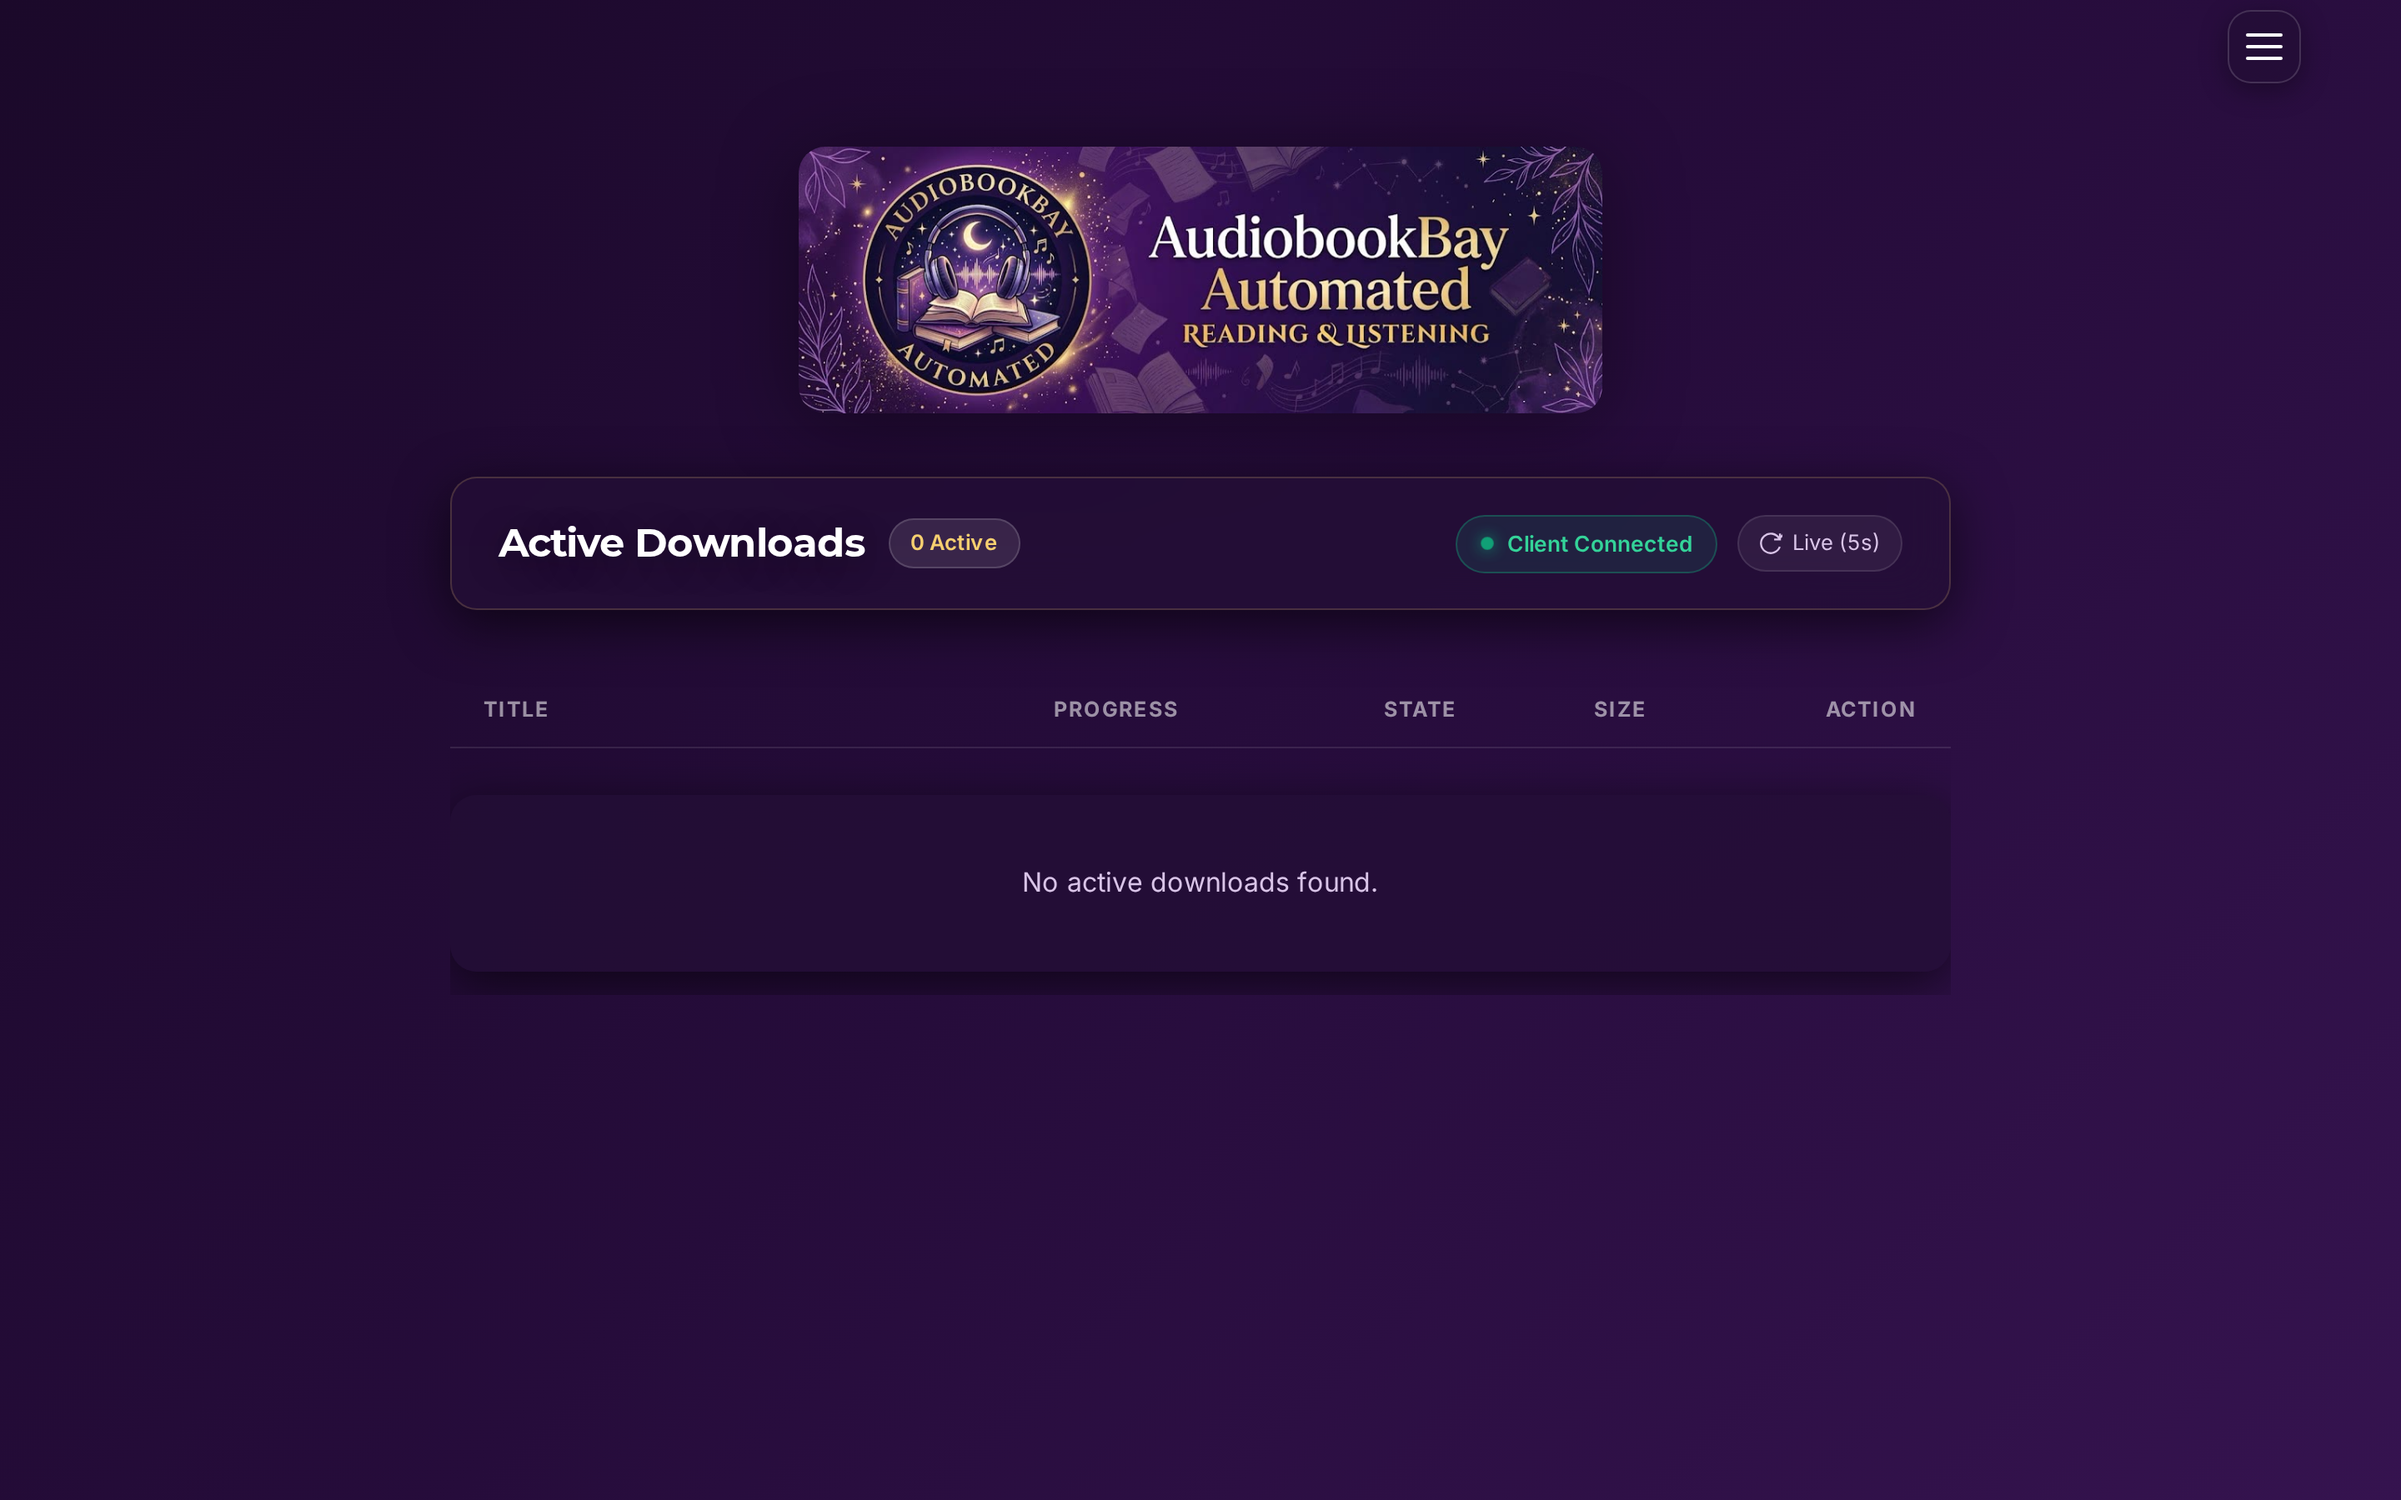
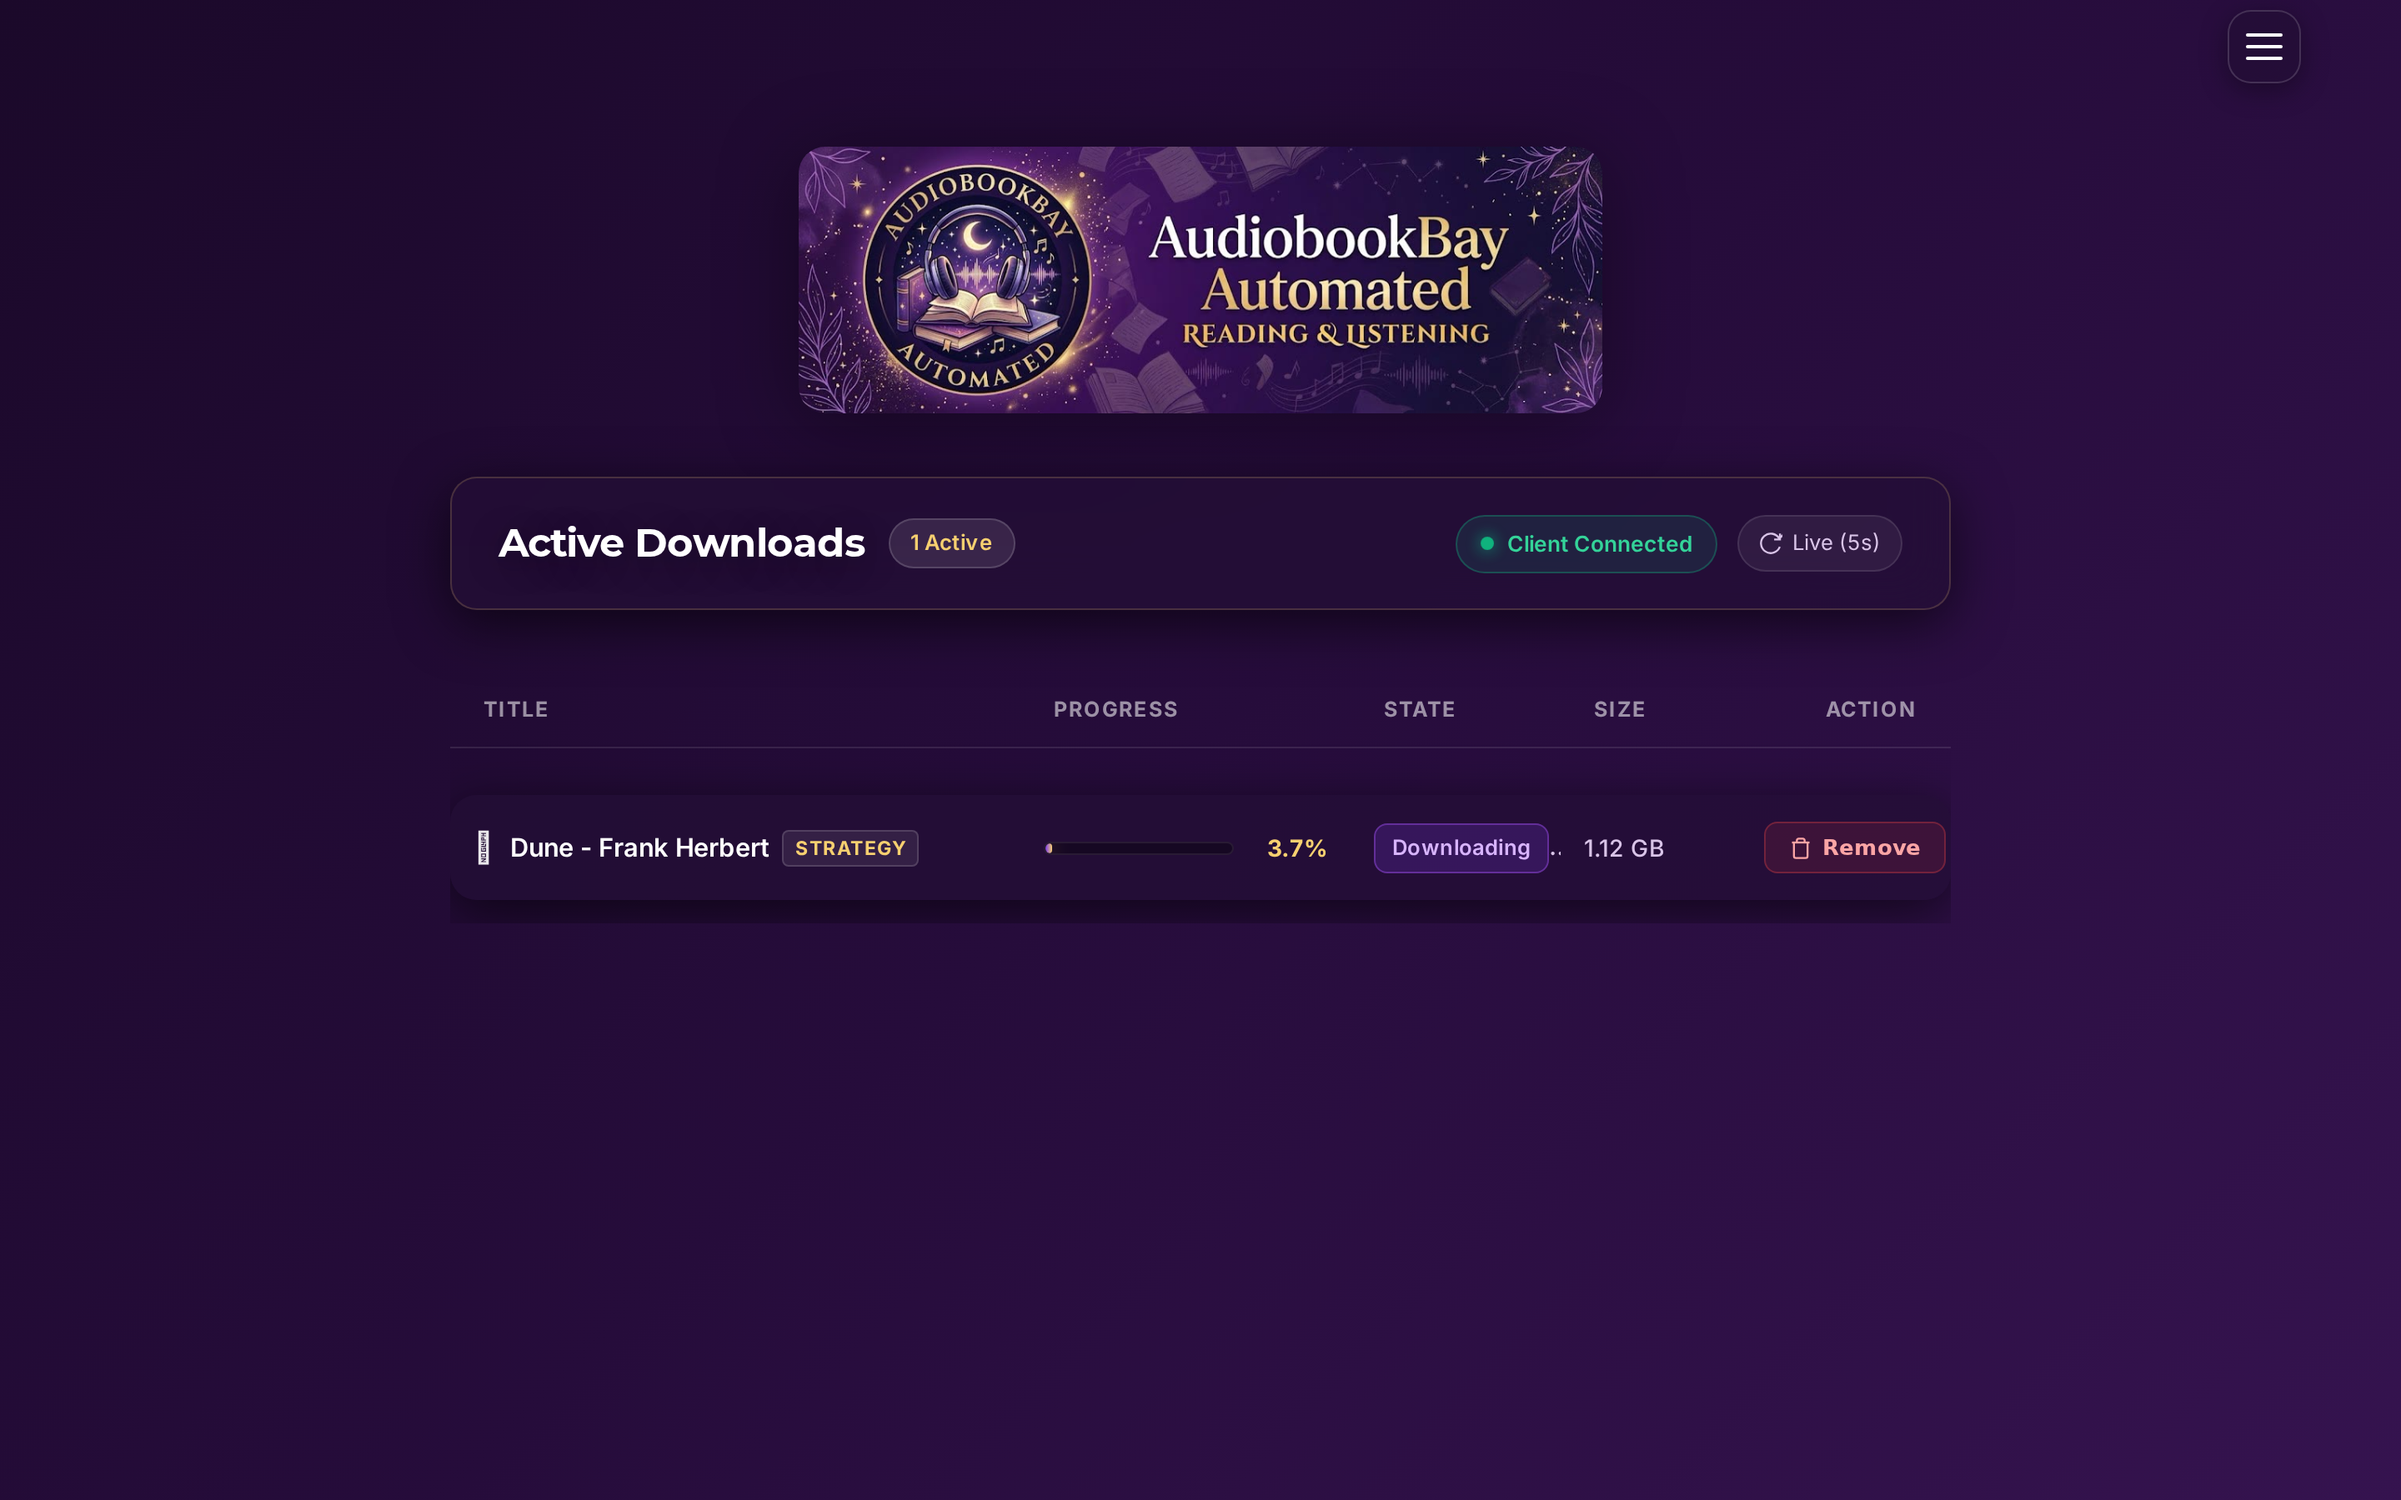
docs: update status.png with active torrent download progress

diff --git a/tests/e2e/capture_screenshots.js b/tests/e2e/capture_screenshots.js
@@ -1,51 +1,53 @@
 // File: tests/e2e/capture_screenshots.js
-const { chromium } = require('@playwright/test');
-const path = require('path');
+const { chromium } = require("@playwright/test");
+const path = require("path");
 
 (async () => {
     const browser = await chromium.launch({
-        args: ['--no-sandbox', '--disable-setuid-sandbox']
+        args: ["--no-sandbox", "--disable-setuid-sandbox"],
     });
 
     const context = await browser.newContext({
         viewport: { width: 1440, height: 900 },
-        deviceScaleFactor: 2 // 1440 * 2 = 2880px wide Retina high-res screenshot
+        deviceScaleFactor: 2, // 1440 * 2 = 2880px wide Retina high-res screenshot
     });
 
     const page = await context.newPage();
 
     // Set sessionStorage & localStorage to ensure splash is disabled in browser context as well
     await page.addInitScript(() => {
-        sessionStorage.setItem('splashShown', 'true');
-        localStorage.setItem('splashShown', 'true');
-        document.documentElement.classList.add('no-splash');
+        sessionStorage.setItem("splashShown", "true");
+        localStorage.setItem("splashShown", "true");
+        document.documentElement.classList.add("no-splash");
     });
 
     // 1. Capture Search Results Page
-    console.log('Capturing Search page with results...');
-    await page.goto('http://127.0.0.1:5078/?query=dune', { waitUntil: 'domcontentloaded' });
+    console.log("Capturing Search page with results...");
+    await page.goto("http://127.0.0.1:5078/?query=dune", { waitUntil: "domcontentloaded" });
     // Wait for book cards / table to render cleanly
-    await page.waitForSelector('.book-row, .book-card', { timeout: 15000 }).catch(() => {});
+    await page.waitForSelector(".book-row, .book-card", { timeout: 15000 }).catch(() => {});
     await page.waitForTimeout(1500);
-    await page.screenshot({ path: path.join(__dirname, '../../docs/images/search.png') });
-    console.log('Saved docs/images/search.png');
+    await page.screenshot({ path: path.join(__dirname, "../../docs/images/search.png") });
+    console.log("Saved docs/images/search.png");
 
     // 2. Capture Details Page
-    console.log('Capturing Details page...');
-    await page.goto('http://127.0.0.1:5078/details?link=/abss/dune-frank-herbert-2/', { waitUntil: 'domcontentloaded' });
-    await page.waitForSelector('.book-details-container, .desc', { timeout: 15000 }).catch(() => {});
+    console.log("Capturing Details page...");
+    await page.goto("http://127.0.0.1:5078/details?link=/abss/dune-frank-herbert-2/", {
+        waitUntil: "domcontentloaded",
+    });
+    await page.waitForSelector(".book-details-container, .desc", { timeout: 15000 }).catch(() => {});
     await page.waitForTimeout(1500);
-    await page.screenshot({ path: path.join(__dirname, '../../docs/images/details.png') });
-    console.log('Saved docs/images/details.png');
+    await page.screenshot({ path: path.join(__dirname, "../../docs/images/details.png") });
+    console.log("Saved docs/images/details.png");
 
     // 3. Capture Status Page
-    console.log('Capturing Status page...');
-    await page.goto('http://127.0.0.1:5078/status', { waitUntil: 'domcontentloaded' });
-    await page.waitForSelector('.status-client-pill, table', { timeout: 15000 }).catch(() => {});
+    console.log("Capturing Status page...");
+    await page.goto("http://127.0.0.1:5078/status", { waitUntil: "domcontentloaded" });
+    await page.waitForSelector(".status-client-pill, table", { timeout: 15000 }).catch(() => {});
     await page.waitForTimeout(1500);
-    await page.screenshot({ path: path.join(__dirname, '../../docs/images/status.png') });
-    console.log('Saved docs/images/status.png');
+    await page.screenshot({ path: path.join(__dirname, "../../docs/images/status.png") });
+    console.log("Saved docs/images/status.png");
 
     await browser.close();
-    console.log('All screenshots captured successfully!');
+    console.log("All screenshots captured successfully!");
 })();
